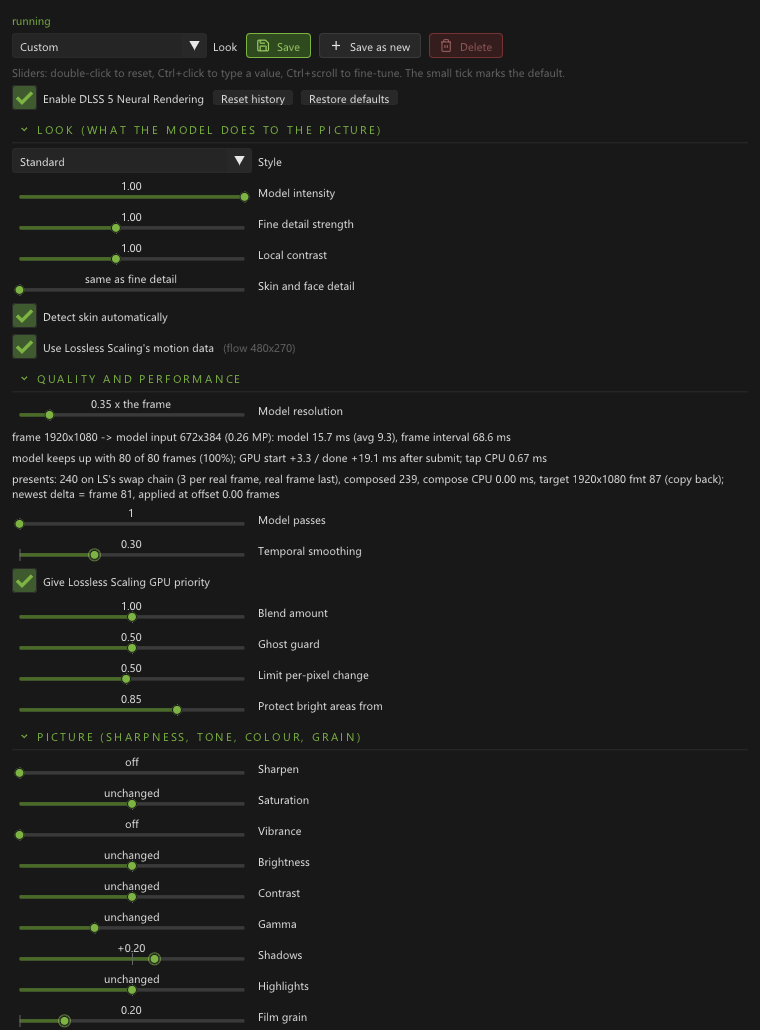
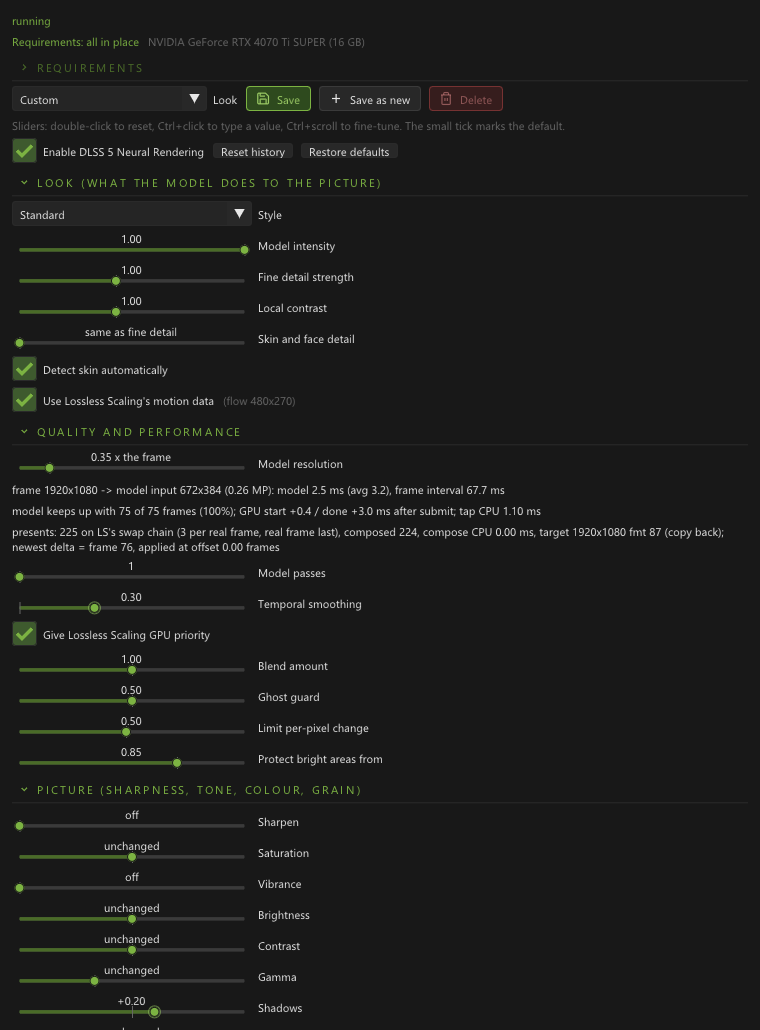
Echo Addon Manager 0.2.2
Version 0.2.2 (Neural Rendering addon 0.2.2, addon API unchanged at 1.0.0). Fixes a crash when Lossless
Scaling exits (a joinable std::thread destroyed at process exit), adds the Neural Rendering requirements
line and section and Browse for the model file, and writes the release zip with standard "/" separators.

Changed region(s): [[0.0, 0.0311, 0.9382, 1.0], [0.6961, 0.0621, 0.7263, 0.0932]]

diff --git a/manager/tools/ui_preview.cpp b/manager/tools/ui_preview.cpp
@@ -96,7 +96,7 @@ int main(int argc, char** argv) {
     char* cleanEnv = nullptr; size_t cleanLen = 0; _dupenv_s(&cleanEnv, &cleanLen, "LSP_PREVIEW_CLEAN");
     const bool clean = cleanEnv != nullptr; free(cleanEnv);
     AddonInfo a, b, c;
-    a.id = "DLSS5NR01"; a.manifest.name = "DLSS 5 Neural Rendering"; a.manifest.version = "0.2.1"; a.manifest.author = "andreiday / Echo-Storm"; a.hModule = (HMODULE)1; a.enabled = true;
+    a.id = "DLSS5NR01"; a.manifest.name = "DLSS 5 Neural Rendering"; a.manifest.version = "0.2.2"; a.manifest.author = "andreiday / Echo-Storm"; a.hModule = (HMODULE)1; a.enabled = true;
     b.id = "sample-a"; b.manifest.name = "Sample addon A"; b.manifest.version = "1.0.0"; b.manifest.author = "Someone"; b.enabled = !clean; b.capabilities = clean ? 0 : LSPROXY_CAP_REQUIRES_RESTART;   // enabled, needs a restart
     c.id = "sample-b"; c.manifest.name = "Sample addon B"; c.manifest.version = "1.0.0"; c.manifest.author = "Someone else"; c.enabled = !clean; c.faulted = !clean;   // shows the ERROR chip
 
@@ -261,7 +261,7 @@ int main(int argc, char** argv) {
         LOG_INFO("Core", "%s v%s starting...", LSPROXY_PRODUCT_NAME, LSPROXY_VERSION_STRING);
         LOG_INFO("GUI", "Tray icon added");
         LOG_INFO("AddonManager", "Found 1 addons in addons");
-        LOG_INFO("AddonManager", "Loaded 'DLSS5NR01' %s", "0.2.1");
+        LOG_INFO("AddonManager", "Loaded 'DLSS5NR01' %s", "0.2.2");
         LOG_INFO("Features", "ReShade input passthrough is on");
         LOG_INFO("GUI", "Hotkey Ctrl+Shift+F12 registered");
         LOG_INFO("DLSS5NR01", "Engine started on the LSFG device");

diff --git a/addons/DLSS5NR01/src/addon/addon.cpp b/addons/DLSS5NR01/src/addon/addon.cpp
@@ -1146,6 +1146,6 @@ LSPROXY_EXPORT void AddonShutdown() {
 
 LSPROXY_EXPORT uint32_t GetAddonCapabilities() { return LSPROXY_CAP_HAS_SETTINGS | LSPROXY_CAP_D3D11_DEVICE_ACCESS; }
 LSPROXY_EXPORT const char* GetAddonName() { return "DLSS 5 Neural Rendering"; }
-LSPROXY_EXPORT const char* GetAddonVersion() { return "0.2.1"; }
+LSPROXY_EXPORT const char* GetAddonVersion() { return "0.2.2"; }
 LSPROXY_EXPORT const char* GetAddonAuthor() { return "andreiday"; }
 LSPROXY_EXPORT const char* GetAddonDescription() { return "Runs NVIDIA DLSS 5 Neural Rendering on Lossless Scaling's real frames on the display GPU and applies the result to every presented frame, without ever making LS wait."; }

diff --git a/manager/sdk/include/lsproxy/version.h b/manager/sdk/include/lsproxy/version.h
@@ -7,7 +7,7 @@
 #define LSPROXY_PRODUCT_LOGFILE_W L"EchoAddonManager.log"
 
 // The release the user installs. Free-form text: "0.1.0", "0.2.0-beta.1".
-#define LSPROXY_VERSION_STRING "0.2.1"
+#define LSPROXY_VERSION_STRING "0.2.2"
 
 // The addon API: what an addon can rely on. This is what IHost::GetHostVersion() reports and what an addon's
 // "min_host_version" is compared with (0x00MMmmpp). Bump the minor number when calls are added to IHost (always

diff --git a/CHANGELOG.md b/CHANGELOG.md
@@ -1,12 +1,20 @@
 # Changelog
 
-## Unreleased
+## 0.2.2 (2026-09-21)
 
+Upgrading from 0.2.1: copy the new files over the old ones. Nothing to migrate.
+
+- **Fixed: a crash when Lossless Scaling exits.** Lossless Scaling can end its process without the manager shutting the addons down first, and a background thread
+  that was still tracked by a `std::thread` object at that moment made Windows abort the program (exit code `0xC0000409`, an error on closing). Fixed in Neural Rendering
+  (the model start-up thread, and the new requirements and file-dialog threads) and in the manager (the ReShade passthrough watcher and the Performance tab's GPU sampler).
+  0.2.0 and 0.2.1 have this weakness in Neural Rendering's model start-up thread and in the manager's two threads, so it is worth updating. Found by tests that end the
+  process the way Lossless Scaling can (`exitmode=abrupt`, `abrupt` and `abrupt-gpu`), which failed before the fix and are now in the test runners.
 - **DLSS 5 Neural Rendering: a Requirements check** at the top of its panel: the graphics card, the NVIDIA driver's NGX core, the model file
   (`nvngx_dlssnr.dll`, with its version and size compared with the build it was tested with), the helper DLL and the engine's state, each marked OK,
   NOTE or MISSING with what to do about it, and engine failures explained in words. Nothing is loaded or downloaded to check. It does not fetch the model
   file, and this project still does not say where to get it. A **Browse for the model file...** button copies a model file you pick into the Lossless Scaling
   folder (the file that was there is moved to `backups`, never deleted).
+- The release zip is now written with standard `/` path separators (earlier zips used `\`, which Windows Explorer and 7-Zip accept but other unzip tools warn about).
 - **`tools\fetch_ngx_sdk.ps1`** fetches the NVIDIA DLSS SDK files needed to build Neural Rendering from NVIDIA's own public repository (pinned to a
   commit, checked by SHA-256) when you pass `-AcceptNvidiaLicense`; `-Latest` takes NVIDIA's newest commit instead, checked against NVIDIA's own git ids, and
   prints the lines to pin it. The pin is "DLSS 310.9.1 SDK", NVIDIA's newest today. The files are still not part of this repository, and never in the release zip.

diff --git a/addons/DLSS5NR01/CHANGELOG.md b/addons/DLSS5NR01/CHANGELOG.md
@@ -1,7 +1,13 @@
 # Changelog
 
-## Unreleased
+## 0.2.2 (2026-09-21)
 
+- **Fixed: a crash when Lossless Scaling exits without shutting the addon down.** The model start-up thread (and the requirements scan and file-dialog threads added below)
+  are detached and tracked by flags instead of `std::thread` objects kept in statics, which called `std::terminate` if still joinable at process exit. `AddonShutdown` waits for a
+  model load in progress, as the join used to. New test scenario `exit_abrupt` (`exitmode=abrupt` in the test host), which failed before the fix.
+- A requirements line at the top of the panel that is always visible: green "all in place", amber for a note, red for what stops it. A model that cannot run on the
+  graphics card (`FeatureNotSupported` at `CreateFeature`) is explained in words. **Browse for the model file...** copies a model file you pick into the Lossless Scaling folder
+  (`req::PlaceModel`; the file that was there goes to `backups`, never deleted).
 - New **Requirements** section at the top of the panel (and a red line above it when something stops the addon from running): graphics card, NVIDIA
   driver (NGX core), model file, helper DLL and engine state, each OK, NOTE or MISSING with a hint, and the engine's error messages in words. A model file
   that is not the tested build (310.8, 158.2 MB) is a note, a file under 20 MB counts as missing. The result is also written to the log at start-up. Nothing

diff --git a/README.md b/README.md
@@ -25,7 +25,7 @@ affiliated with the Lossless Scaling developers; read the [disclaimer](DISCLAIME
 <sub>These pictures are rendered offscreen by the project's own preview tool (`tools/ui_preview.ps1`), so the Performance numbers and log lines are sample data, not a
 measurement. The Neural Rendering panel comes from the offline test host.</sub>
 
-Status: **0.2.1.** Built and tested against Lossless Scaling **3.2.2.0** (the official build) on Windows 11 with an RTX 4070 Ti SUPER; other
+Status: **0.2.2.** Built and tested against Lossless Scaling **3.2.2.0** (the official build) on Windows 11 with an RTX 4070 Ti SUPER; other
 setups are untested.
 
 ## What you get
